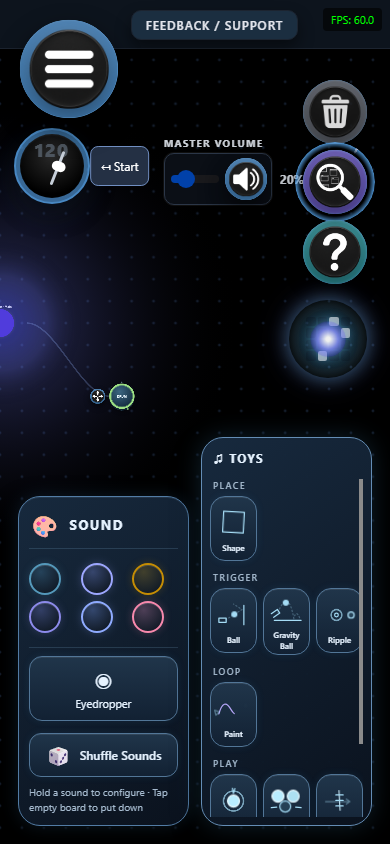
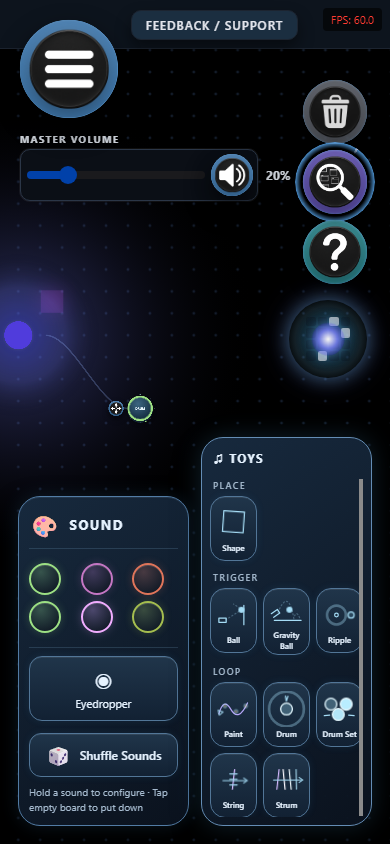
safety

diff --git a/src/simple-help-labels.js b/src/simple-help-labels.js
@@ -11,6 +11,7 @@ export function collectSimpleHelpTargets(root=document,win=window){
  const styles=new WeakMap(),style=n=>{if(!styles.has(n))styles.set(n,win.getComputedStyle(n));return styles.get(n);};
  const items=[];
  for(const target of root.querySelectorAll('[data-simple-help],[data-help-label]')){
+  if(target.dataset.simpleCategory==='loop'&&target.closest('.toy-spawner-menu')?.querySelector('.shape-palette'))continue;
   const label=simpleHelpLabel(target);if(!label||!target.isConnected)continue;
   let visible=true;
   for(let node=target;node;node=node.parentElement){
@@ -37,10 +38,10 @@ export function collectSimpleHelpTargets(root=document,win=window){
   const edgeRoot=target.closest('#paint-palette,.shape-palette,.toy-spawner-menu'),edge=edgeRoot?.getBoundingClientRect();
   let position=target.dataset.helpPosition||(target.closest('#paint-palette')?'right':target.closest('.toy-spawner-dock')?'left':target.closest('#topbar')?'bottom':'top');
   const chooser=edgeRoot?.querySelector?.('.shape-palette');
-  if(chooser&&edge&&win.innerWidth-edge.right>=100&&r.top>=chooser.getBoundingClientRect().top-24)position='right';
-  if(visible)items.push({target,label,edge:edge?{left:edge.left,right:edge.right}:null,rect:{left:r.left,top:r.top,right:r.right,bottom:r.bottom,width:r.width,height:r.height},position});
+  if(!target.dataset.helpPosition&&chooser&&edge&&win.innerWidth-edge.right>=100&&r.top>=chooser.getBoundingClientRect().top-24)position='right';
+  if(visible)items.push({target,label,edge:edge?{left:edge.left,right:edge.right}:null,rect:{left:r.left,top:r.top,right:r.right,bottom:r.bottom,width:r.width,height:r.height},position,preferred:target.dataset.simpleHelpPlacement==='preferred'});
  }
- return items;
+ return items.sort((a,b)=>Number(b.preferred&&b.position==='top')-Number(a.preferred&&a.position==='top'));
 }
 
 const area=(a,b)=>Math.max(0,Math.min(a.right,b.right)-Math.max(a.left,b.left))*Math.max(0,Math.min(a.bottom,b.bottom)-Math.max(a.top,b.top));
@@ -48,14 +49,15 @@ export function placeSimpleHelpLabels(entries,width,height){
  const placed=[],margin=6,gap=8;
  for(const entry of entries){
   const r=entry.rect,w=Math.min(entry.width,width-2*margin),h=entry.height;let best=null;
-  for(const dir of [...new Set([entry.position,'top','bottom','left','right'])])for(const offset of [0,-24,24,-48,48,-80,80,-120,120,-180,180,-260,260]){
+  for(const dir of [...new Set([entry.position,'top','bottom','left','right'])])for(const offset of [0,-24,24,-48,48,-80,80,-120,120,-180,180,-260,260,-360,360,-480,480])for(const outward of (['left','right'].includes(dir)?[0,120,240,360]:[0])){
    const horizontal=dir==='top'||dir==='bottom';
    const preferredEdge=dir===entry.position?entry.edge:null;
    let left=horizontal?(r.left+r.right-w)/2+offset:dir==='left'?(preferredEdge?.left??r.left)-w-gap:(preferredEdge?.right??r.right)+gap;
+   if(!horizontal)left+=(dir==='left'?-outward:outward);
    let top=horizontal?(dir==='top'?r.top-h-gap:r.bottom+gap):(r.top+r.bottom-h)/2+offset;
    left=Math.max(margin,Math.min(width-margin-w,left));top=Math.max(margin,Math.min(height-margin-h,top));
    const box={left,top,right:left+w,bottom:top+h};
-   const cost=(dir===entry.position?0:16)+area(box,r)*60+placed.reduce((n,p)=>n+area(box,p.box)*30,0)+entries.reduce((n,e)=>n+(e===entry?0:area(box,e.rect)*3),0)+Math.hypot(left+w/2-(r.left+r.right)/2,top+h/2-(r.top+r.bottom)/2)*.08;
+   const cost=(entry.preferred?Math.abs(offset)*.3:0)+(dir===entry.position?0:entry.preferred?100000:16)+area(box,r)*60+placed.reduce((n,p)=>n+area(box,p.box)*30,0)+entries.reduce((n,e)=>n+(e===entry?0:area(box,e.rect)*100),0)+Math.hypot(left+w/2-(r.left+r.right)/2,top+h/2-(r.top+r.bottom)/2)*.08;
    if(!best||cost<best.cost)best={box,dir,cost};
   }
   placed.push({...best,entry});
@@ -73,7 +75,7 @@ export function renderSimpleHelpLabels(host,root=document,win=window){
   let nodes=session.nodes.get(entry.target);
   if(!nodes||nodes.callout.parentElement!==host){
    const callout=root.createElement('div'),connector=root.createElement('div');callout.className='toy-help-callout';connector.className='toy-help-connector';
-   callout.style.pointerEvents=connector.style.pointerEvents='none';callout.__helpTarget=connector.__helpTarget=entry.target;
+   callout.style.pointerEvents=connector.style.pointerEvents='none';callout.classList.toggle('sound-palette-help',entry.target.id==='paint-palette');callout.__helpTarget=connector.__helpTarget=entry.target;
    host.append(connector,callout);nodes={callout,connector};session.nodes.set(entry.target,nodes);changed=true;
   }
   if(nodes.callout.textContent!==entry.label){nodes.callout.textContent=entry.label;changed=true;}

diff --git a/src/paint-palette.js b/src/paint-palette.js
@@ -3,26 +3,26 @@ import {PAINT_TARGET_SELECTOR,resolvePaintTarget,paintInstrument} from './paint-
 import { createPaletteState, segmentHitsRect } from './paint-palette-state.js';
 import { instrumentColour, setInstrumentColour } from './instrument-colours.js';
 import { openInstrumentPicker, closeInstrumentPicker } from './instrument-picker.js';
-import { getDisplayNameForId,getInstrumentEntries,loadInstrumentEntries } from './instrument-catalog.js';
+import { getInstrumentDisplayLabel,getInstrumentEntries,loadInstrumentEntries } from './instrument-catalog.js';
 import {getSoundThemeKey} from './sound-theme.js';
 import {auditionInstrument} from './instrument-audition.js';
 
 export function installPaintPalette() {
  if (document.getElementById('paint-palette')) return;
  const root = document.createElement('aside');
- root.id = 'paint-palette';root.dataset.simpleHelp='Choose sounds to apply to toys.';root.dataset.simpleHelpGroup='true'; root.setAttribute('aria-label', uiMode.isSimple()?'Sound Palette':'Painter’s palette');
+ root.id = 'paint-palette';root.dataset.simpleHelp='Tap a sound to select it, then tap or swipe over toys to apply it. Tap empty space to put it down.';root.dataset.simpleHelpGroup='true';root.dataset.helpPosition='top';root.dataset.simpleHelpPlacement='preferred'; root.setAttribute('aria-label', uiMode.isSimple()?'Sound Palette':'Painter’s palette');
  root.innerHTML = `<button class="palette-handle" type="button" aria-expanded="false" title="Open painter’s palette">🎨<span>PAINT</span></button>
   <div class="palette-wells" hidden></div><div class="palette-tools" hidden>
   <button type="button" data-tool="eyedropper" title="Sample an instrument">◉<span>Eyedropper</span></button></div>
   <button type="button" class="palette-shuffle" title="Shuffle instruments" aria-label="Shuffle all six instruments" hidden>🎲<span>Shuffle</span></button>
   <p class="palette-hint" hidden>Hold a well to configure · Tap empty board to put down</p>`;
  document.body.appendChild(root);
- const wells = root.querySelector('.palette-wells');
+ const wells = root.querySelector('.palette-wells');wells.dataset.simpleHelp='Tap and hold a sound to choose a different sound.';wells.dataset.simpleHelpDetail='true';wells.dataset.helpPosition='right';
  const handle = root.querySelector('.palette-handle');
  const buttons = [];
  const palette = createPaletteState({ onChange: render,allowRandomise:()=>!uiMode.isSimple() });
  let stroke = null, config = null, hold = null, swallowClickUntil = 0, suppressBoardClickUntil = 0;
- const name = id => getDisplayNameForId(id) || id || 'Empty well';
+ const name = id => getInstrumentDisplayLabel(id) || 'Empty well';
  let wasEquipped=false;
  function render() {
   const equipped=!!palette.state.activePaletteTool;
@@ -87,13 +87,21 @@ export function installPaintPalette() {
   render();
  }
  uiMode.subscribe(syncMode);syncMode();
+ void loadInstrumentEntries().then(render);
+ let shuffleEffectTimer;
+ const finishShuffleEffect=()=>{clearTimeout(shuffleEffectTimer);wells.classList.remove('is-shuffling');};
+ for(const type of ['animationend','animationcancel'])wells.addEventListener(type,event=>{
+  if(event.animationName==='palette-shuffle'||event.animationName==='palette-shuffle-fade')finishShuffleEffect();
+ });
  const shuffle=root.querySelector('.palette-shuffle');shuffle.dataset.simpleHelp='Fill the palette with a new set of sounds.';shuffle.dataset.simpleHelpDetail='true';const eyedropper=root.querySelector('[data-tool=eyedropper]');eyedropper.dataset.simpleHelp="Copy a toy's sound into the palette.";eyedropper.dataset.simpleHelpDetail='true';
  shuffle.addEventListener('click',async()=>{
   if(shuffle.disabled)return;shuffle.disabled=true;cancelHold();releaseStroke();palette.clear();
   try{
    const entries=getInstrumentEntries();
    if(palette.shuffle(entries.length?entries:await loadInstrumentEntries(),getSoundThemeKey())){
-    wells.classList.remove('is-shuffling');void wells.offsetWidth;wells.classList.add('is-shuffling');
+    finishShuffleEffect();void wells.offsetWidth;wells.classList.add('is-shuffling');
+    // Also expire when hidden or when an animation event cannot be delivered.
+    shuffleEffectTimer=setTimeout(finishShuffleEffect,350);
    }
   }catch(error){console.warn('[palette] Shuffle failed',error);}
   finally{shuffle.disabled=false;}

diff --git a/src/toy-spawner.js b/src/toy-spawner.js
@@ -403,6 +403,15 @@ function setMenuOpen(open) {
   if(!state.open)document.dispatchEvent(new CustomEvent('toy-spawner:closed'));
 }
 
+// CSS animations share the document clock, including newly rebuilt previews.
+const initializedPreviewAnimations=new WeakSet();
+function syncPreviewPhase(){
+ const time=document.timeline?.currentTime;if(time==null)return;
+ for(const preview of state.menu?.querySelectorAll('.toy-preview')||[])for(const animation of preview.getAnimations?.({subtree:true})||[]){
+  if(initializedPreviewAnimations.has(animation))continue;
+  animation.currentTime=time;initializedPreviewAnimations.add(animation);
+ }
+}
 function renderCatalog() {
   if (!state.listHost) return;
   const catalog = safeCatalog();
@@ -411,7 +420,7 @@ function renderCatalog() {
   state.listHost.innerHTML = '';
   state.creationButtons=[];
   const grouped=uiMode.isSimple()&&state.activePalette==='music',hosts=new Map();
-  if(state.menu){state.menu.dataset.simpleHelp=grouped?'Create toys to use on the board.':'';state.menu.dataset.simpleHelpGroup='true';toggleSimpleBoxHelp();}
+  if(state.menu){state.menu.dataset.simpleHelp=grouped?'Create toys to use on the board.':'';state.menu.dataset.simpleHelpGroup='true';state.menu.dataset.helpPosition='top';state.menu.dataset.simpleHelpPlacement='preferred';toggleSimpleBoxHelp();}
   state.menu?.setAttribute('role',grouped?'region':'menu');
   state.menu?.setAttribute('aria-label',grouped?'Simple Toy Box':'Create toy');
   state.menu?.classList.toggle('simple-music-grouped',grouped);
@@ -424,7 +433,7 @@ function renderCatalog() {
     state.menu.prepend(header);
   }
   if(grouped)for(const group of simpleCreationGroups(catalog)){
-    const section=document.createElement('section');section.className='simple-creation-group';section.dataset.simpleCategory=group.id;section.setAttribute('role','group');
+    const section=document.createElement('section');section.className='simple-creation-group';section.dataset.simpleCategory=group.id;section.dataset.simpleHelp=({place:'Place shapes that trigger sound when hit.',trigger:'Place toys that trigger sounds.',loop:'Place toys that play on a loop.'})[group.id];section.dataset.simpleHelpDetail='true';section.dataset.helpPosition='left';section.dataset.simpleHelpPlacement='preferred';section.setAttribute('role','group');
     const heading=document.createElement('h3');heading.id=`simple-creation-${group.id}`;heading.textContent=group.label;section.setAttribute('aria-labelledby',heading.id);section.append(heading);
     const contents=document.createElement('div');contents.className='simple-creation-items';section.append(contents);hosts.set(group.id,contents);
     state.listHost.append(section);
@@ -534,6 +543,7 @@ function openShapePalette(anchor,catalog){
 function toggleSimpleBoxHelp(){if(state.toggle)state.toggle.dataset.simpleHelp=state.open?'':'Create toys to use on the board.';}
 
 function syncCreationModeUI(){
+ syncPreviewPhase();
   for(const {card,entry}of state.creationButtons){const active=!!entry.isCreationActive?.();card.classList.toggle('is-active',active);card.setAttribute('aria-pressed',String(active));}
   for(const {button,shape,entry}of state.shapeButtons){const active=!!entry.isCreationActive?.()&&entry.activeShapeType?.()===shape.id;button.setAttribute('aria-pressed',String(active));}
   const tool=state.creationButtons.find(({entry})=>entry.type==='physical-cube');

diff --git a/src/main.js b/src/main.js
@@ -2172,10 +2172,10 @@ const UNFINISHED_TOY_LOCK_ENABLED = false;
 
 const toyCatalog = [
     { type: 'simple-draw', name: 'Paint', simpleCategory:'loop', isCreationActive:()=>document.body.classList.contains('simple-draw-creating'), description: 'Draw on the board. Release to make a Simple Draw toy.', size: { width: 640, height: 440 }, action:()=>{g_drumBoard.cancel();g_rippleBoard.cancel();g_bouncerBoard.cancel();g_simpleDrawCreation.arm();return true;} },
-    { type: 'simple-drum', name: 'Drum', simpleCategory:'play', isCreationActive:()=>document.body.classList.contains('simple-drum-armed'), description:'Tap the board to place drums. Tap a drum to record a looping hit; drag to move.', size:{width:104,height:104}, action:()=>{g_drumBoard.arm();return true;} },
-    { type: 'simple-drum-set', name: 'Drum Set', simpleCategory:'play', simpleOrder:1, description:'Create six independent drums in a compact kit.', action:()=>{g_drumBoard.createSet();return true;} },
-    {type:'simple-string',name:'String',simpleCategory:'play',simpleOrder:2,isCreationActive:()=>g_stringBoard.activeKind==='string',description:'Drag out one string. Pluck regions to record a loop.',action:()=>{g_stringBoard.arm('string');return true;}},
-    {type:'simple-strum',name:'Strum',simpleCategory:'play',simpleOrder:3,isCreationActive:()=>g_stringBoard.activeKind==='strum',description:'Drag out four strings. Swipe across them to record a strum.',action:()=>{g_stringBoard.arm('strum');return true;}},
+    { type: 'simple-drum', name: 'Drum', simpleCategory:'loop',simpleOrder:1, isCreationActive:()=>document.body.classList.contains('simple-drum-armed'), description:'Tap the board to place drums. Tap a drum to record a looping hit; drag to move.', size:{width:104,height:104}, action:()=>{g_drumBoard.arm();return true;} },
+    { type: 'simple-drum-set', name: 'Drum Set', simpleCategory:'loop',simpleOrder:2, description:'Create six independent drums in a compact kit.', action:()=>{g_drumBoard.createSet();return true;} },
+    {type:'simple-string',name:'String',simpleCategory:'loop',simpleOrder:3,isCreationActive:()=>g_stringBoard.activeKind==='string',description:'Drag out one string. Pluck regions to record a loop.',action:()=>{g_stringBoard.arm('string');return true;}},
+    {type:'simple-strum',name:'Strum',simpleCategory:'loop',simpleOrder:4,isCreationActive:()=>g_stringBoard.activeKind==='strum',description:'Drag out four strings. Swipe across them to record a strum.',action:()=>{g_stringBoard.arm('strum');return true;}},
     { type: 'simple-ripple', name: 'Ripple', simpleCategory:'trigger', simpleOrder:2, isCreationActive:()=>document.body.classList.contains('simple-ripple-armed'), description: 'Tap the board to send a musical wave.', size:{width:76,height:76}, action:()=>{g_rippleBoard.arm();return true;} },
     { type: 'simple-bouncer', name: 'Simple Bouncer', description: 'Scatter cubes, then drag across the board to throw a ball.', action:()=>{activateBoardBouncer();return true;} },
     { type: 'physical-cube', name: 'Cube', simpleCategory:'place', activeShapeType:()=>window.BouncerBoard?.activeShapeType??null, isCreationActive:()=>window.BouncerBoard?.activeMode==='cube', description: 'Tap empty board space to place shared cubes.', size:{width:58,height:58} },

diff --git a/src/heartbeat-view.js b/src/heartbeat-view.js
@@ -28,7 +28,7 @@ export function installHeartbeatView({ getWorld, getMainPoint, getSpawnPoint = g
       let el = elements.get(record.id);
       if (!el) {
         el = document.createElement('div'); el.className = record.id===MAIN_TRANSPORT_ID?'heartbeat-toy heartbeat-main':'heartbeat-toy'; el.dataset.heartbeatId = record.id;
-        const title = document.createElement('strong'); title.textContent = record.id===MAIN_TRANSPORT_ID ? 'Heartbeat · Main' : record.name; el.append(title);
+        const title = document.createElement('strong');title.className='heartbeat-title'; title.textContent = record.id===MAIN_TRANSPORT_ID ? 'Heartbeat · Main' : record.name; el.append(title);
         if(record.id===MAIN_TRANSPORT_ID){
           const canvas=document.createElement('canvas');canvas.className='heartbeat-core';canvas.width=canvas.height=1024;
           canvas.setAttribute('aria-hidden','true');el.append(canvas);

diff --git a/src/instrument-catalog.js b/src/instrument-catalog.js
@@ -222,6 +222,15 @@ export function sampleNeedsReview(sample) {
 }
 
 export function getDisplayNameForId(id) { return ID_TO_DISPLAY_NAME.get(id); }
+// Palette display is independent of ID casing and catalogue load timing.
+export function getInstrumentDisplayLabel(id){
+ if(!id)return '';
+ const key=value=>String(value).trim().toLowerCase().replace(/[_-]+/g,' ').replace(/\s+/g,' ');
+ const exact=getDisplayNameForId(id);if(exact)return exact;
+ const normalized=key(id);
+ for(const [known,label]of ID_TO_DISPLAY_NAME)if(key(known)===normalized)return label;
+ return String(id).trim().replace(/_/g,' ').toLowerCase().replace(/\b[a-z]/g,c=>c.toUpperCase());
+}
 export function getIdForDisplayName(displayName) { return DISPLAY_NAME_TO_ID.get(displayName); }
 export function getAllIds() { return Array.from(ID_TO_DISPLAY_NAME.keys()); }
 export function getInstrumentEntries() { return Array.from(LAST_ENTRIES); }

diff --git a/ui-mode.css b/ui-mode.css
@@ -81,3 +81,7 @@ html[data-ui-mode="simple"] .toy-help-connector{opacity:.65;pointer-events:none!
 
 html[data-ui-mode="simple"] #topbar #topbar-master-volume:not(.is-in-setup){left:50%;transform:translateX(-50%);top:calc(var(--top-btn-offset) + var(--ui-mode-row-space,0px) + 48px)!important;width:374px;max-width:calc(100vw - 2 * var(--top-btn-offset) - 80px)}
 @media(max-width:720px){html[data-ui-mode="simple"] #topbar #topbar-master-volume:not(.is-in-setup){left:var(--top-btn-offset);transform:none;top:calc(var(--top-btn-offset) + var(--ui-mode-row-space,0px) + var(--top-btn-size) + 16px)!important;width:calc(100vw - 2 * var(--top-btn-offset) - 80px)}}
+
+html[data-ui-mode="simple"] .heartbeat-main .heartbeat-title{display:none}
+
+html[data-ui-mode="simple"] .toy-help-callout.sound-palette-help{max-width:min(340px,calc(100vw - 12px))}

diff --git a/style.css b/style.css
@@ -140,7 +140,9 @@ input, select, textarea, button {
 }
 
 /* Prevent any CSS transition/animation from fighting the atomic commit */
-.zoom-commit-freeze *, .zoom-commit-freeze *::before, .zoom-commit-freeze *::after {
+.zoom-commit-freeze :not(html[data-ui-mode="simple"] .toy-preview *),
+.zoom-commit-freeze :not(html[data-ui-mode="simple"] .toy-preview *)::before,
+.zoom-commit-freeze :not(html[data-ui-mode="simple"] .toy-preview *)::after {
   transition: none !important;
   animation: none !important;
   caret-color: transparent; /* avoids text repaint flicker on some iPads */

diff --git a/src/simple-creation-palette.js b/src/simple-creation-palette.js
@@ -4,7 +4,7 @@ export const SIMPLE_CREATION_CATEGORIES=Object.freeze([
  {id:'place',label:'PLACE'},
  {id:'trigger',label:'TRIGGER'},
  {id:'loop',label:'LOOP'},
- {id:'play',label:'PLAY'},
+
 ]);
 export function simpleCreationGroups(entries){
  return SIMPLE_CREATION_CATEGORIES.map(category=>({...category,entries:entries.filter(entry=>entry.simpleCategory===category.id && canCreateToy(entry.type)).sort((a,b)=>(a.simpleOrder||0)-(b.simpleOrder||0))}));
